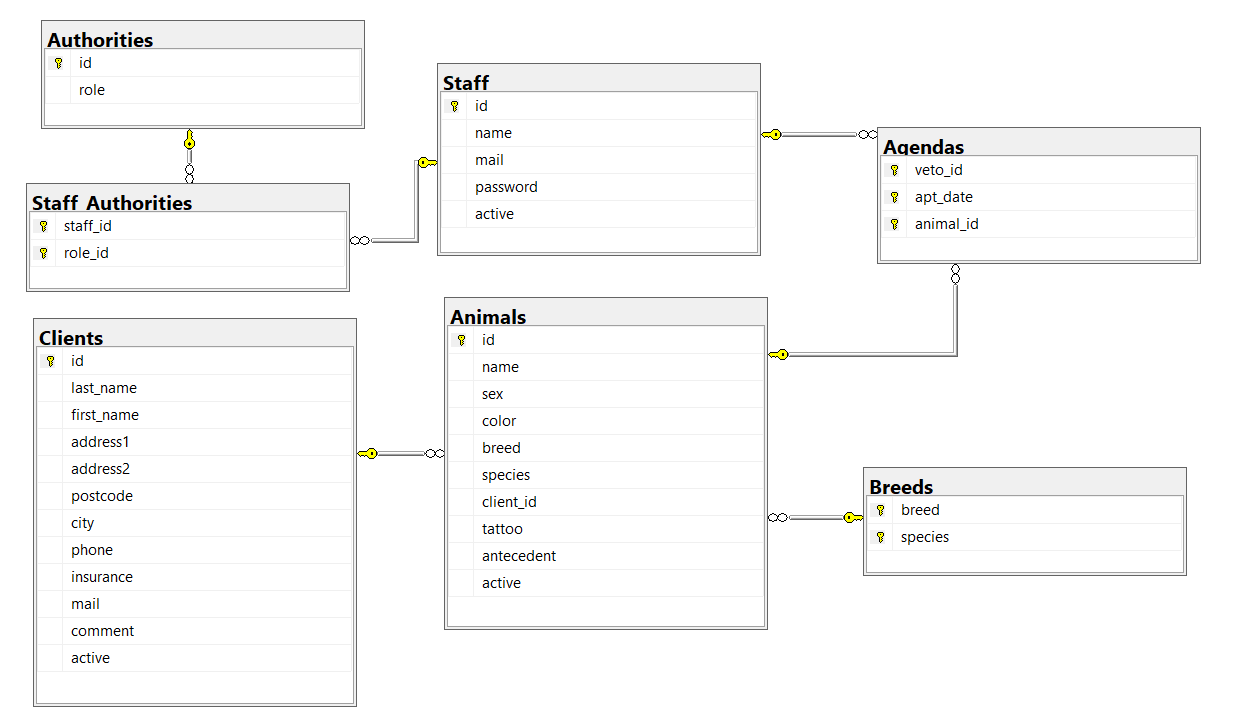
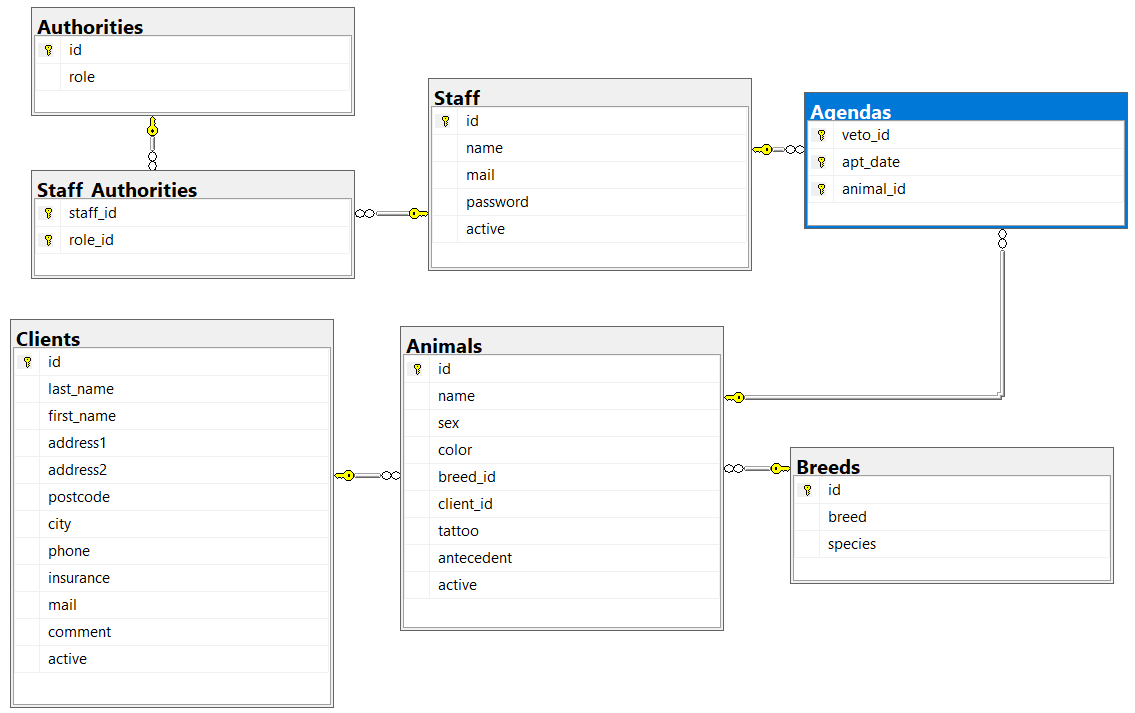
création models

diff --git a/src/main/java/com/jr/veterinary_clinic/models/Animal.java b/src/main/java/com/jr/veterinary_clinic/models/Animal.java
@@ -1,0 +1,142 @@
+package com.jr.veterinary_clinic.models;
+
+import java.util.ArrayList;
+import java.util.List;
+
+public class Animal {
+
+    private int id;
+    private String name;
+    private String sex;
+    private String color;
+    private String tattoo;
+    private String antecedent;
+    private boolean active;
+    private Breed breed;
+    private Client owner;
+    private List<Agenda> appointmentsList = new ArrayList<Agenda>();
+
+    public Animal() {}
+
+    public Animal(String name, String sex, String color, String tattoo, String antecedent, boolean active, Breed breed, Client owner, List<Agenda> appointmentsList) {
+        this.setName(name);
+        this.setSex(sex);
+        this.setColor(color);
+        this.setTattoo(tattoo);
+        this.setAntecedent(antecedent);
+        this.setActive(active);
+        this.setBreed(breed);
+        this.setOwner(owner);
+        this.setAppointmentsList(appointmentsList);
+    }
+
+    public Animal(int id, String name, String sex, String color, String tattoo, String antecedent, boolean active, Breed breed, Client owner, List<Agenda> appointmentsList) {
+        this.setId(id);
+        this.setName(name);
+        this.setSex(sex);
+        this.setColor(color);
+        this.setTattoo(tattoo);
+        this.setAntecedent(antecedent);
+        this.setActive(active);
+        this.setBreed(breed);
+        this.setOwner(owner);
+        this.setAppointmentsList(appointmentsList);
+    }
+
+    public int getId() {
+        return id;
+    }
+
+    public void setId(int id) {
+        this.id = id;
+    }
+
+    public String getName() {
+        return name;
+    }
+
+    public void setName(String name) {
+        this.name = name;
+    }
+
+    public String getSex() {
+        return sex;
+    }
+
+    public void setSex(String sex) {
+        this.sex = sex;
+    }
+
+    public String getColor() {
+        return color;
+    }
+
+    public void setColor(String color) {
+        this.color = color;
+    }
+
+    public String getTattoo() {
+        return tattoo;
+    }
+
+    public void setTattoo(String tattoo) {
+        this.tattoo = tattoo;
+    }
+
+    public String getAntecedent() {
+        return antecedent;
+    }
+
+    public void setAntecedent(String antecedent) {
+        this.antecedent = antecedent;
+    }
+
+    public boolean isActive() {
+        return active;
+    }
+
+    public void setActive(boolean active) {
+        this.active = active;
+    }
+
+    public Breed getBreed() {
+        return breed;
+    }
+
+    public void setBreed(Breed breed) {
+        this.breed = breed;
+    }
+
+    public Client getOwner() {
+        return owner;
+    }
+
+    public void setOwner(Client owner) {
+        this.owner = owner;
+    }
+
+    public List<Agenda> getAppointmentsList() {
+        return appointmentsList;
+    }
+
+    public void setAppointmentsList(List<Agenda> appointmentsList) {
+        this.appointmentsList = appointmentsList;
+    }
+
+    @Override
+    public String toString() {
+        return "Animal{" +
+                "id=" + id +
+                ", name='" + name + '\'' +
+                ", sex='" + sex + '\'' +
+                ", color='" + color + '\'' +
+                ", tattoo='" + tattoo + '\'' +
+                ", antecedent='" + antecedent + '\'' +
+                ", active=" + active +
+                ", breed=" + breed +
+                ", owner=" + owner +
+                ", appointmentsList=" + appointmentsList +
+                '}';
+    }
+
+}

diff --git a/src/main/java/com/jr/veterinary_clinic/models/Agenda.java b/src/main/java/com/jr/veterinary_clinic/models/Agenda.java
@@ -1,0 +1,52 @@
+package com.jr.veterinary_clinic.models;
+
+import java.util.Date;
+
+public class Agenda {
+
+    private Date appointmentDate;
+    private Staff veterinary;
+    private Animal animal;
+
+    public Agenda() {}
+
+    public Agenda(Date appointment_date, Staff veterinary, Animal animal) {
+        this.setAppointment_date(appointment_date);
+        this.setVeterinary(veterinary);
+        this.setAnimal(animal);
+    }
+
+    public Date getAppointment_date() {
+        return appointmentDate;
+    }
+
+    public void setAppointment_date(Date appointment_date) {
+        this.appointmentDate = appointment_date;
+    }
+
+    public Staff getVeterinary() {
+        return veterinary;
+    }
+
+    public void setVeterinary(Staff veterinary) {
+        this.veterinary = veterinary;
+    }
+
+    public Animal getAnimal() {
+        return animal;
+    }
+
+    public void setAnimal(Animal animal) {
+        this.animal = animal;
+    }
+
+    @Override
+    public String toString() {
+        return "Agenda{" +
+                "appointment_date=" + appointmentDate +
+                ", veterinary=" + veterinary +
+                ", animal=" + animal +
+                '}';
+    }
+
+}

diff --git a/src/main/java/com/jr/veterinary_clinic/models/Breed.java b/src/main/java/com/jr/veterinary_clinic/models/Breed.java
@@ -1,0 +1,50 @@
+package com.jr.veterinary_clinic.models;
+
+public class Breed {
+
+    private int id;
+    private String breed;
+    private String species;
+
+    public Breed() {}
+
+    public Breed(int id, String breed, String species) {
+        this.setId(id);
+        this.setBreed(breed);
+        this.setSpecies(species);
+    }
+
+    public int getId() {
+        return id;
+    }
+
+    public void setId(int id) {
+        this.id = id;
+    }
+
+    public String getBreed() {
+        return breed;
+    }
+
+    public void setBreed(String breed) {
+        this.breed = breed;
+    }
+
+    public String getSpecies() {
+        return species;
+    }
+
+    public void setSpecies(String species) {
+        this.species = species;
+    }
+
+    @Override
+    public String toString() {
+        return "Breed{" +
+                "id=" + id +
+                ", breed='" + breed + '\'' +
+                ", species='" + species + '\'' +
+                '}';
+    }
+
+}

diff --git a/src/main/java/com/jr/veterinary_clinic/models/Client.java b/src/main/java/com/jr/veterinary_clinic/models/Client.java
@@ -1,0 +1,4 @@
+package com.jr.veterinary_clinic.models;
+
+public class Client {
+}
